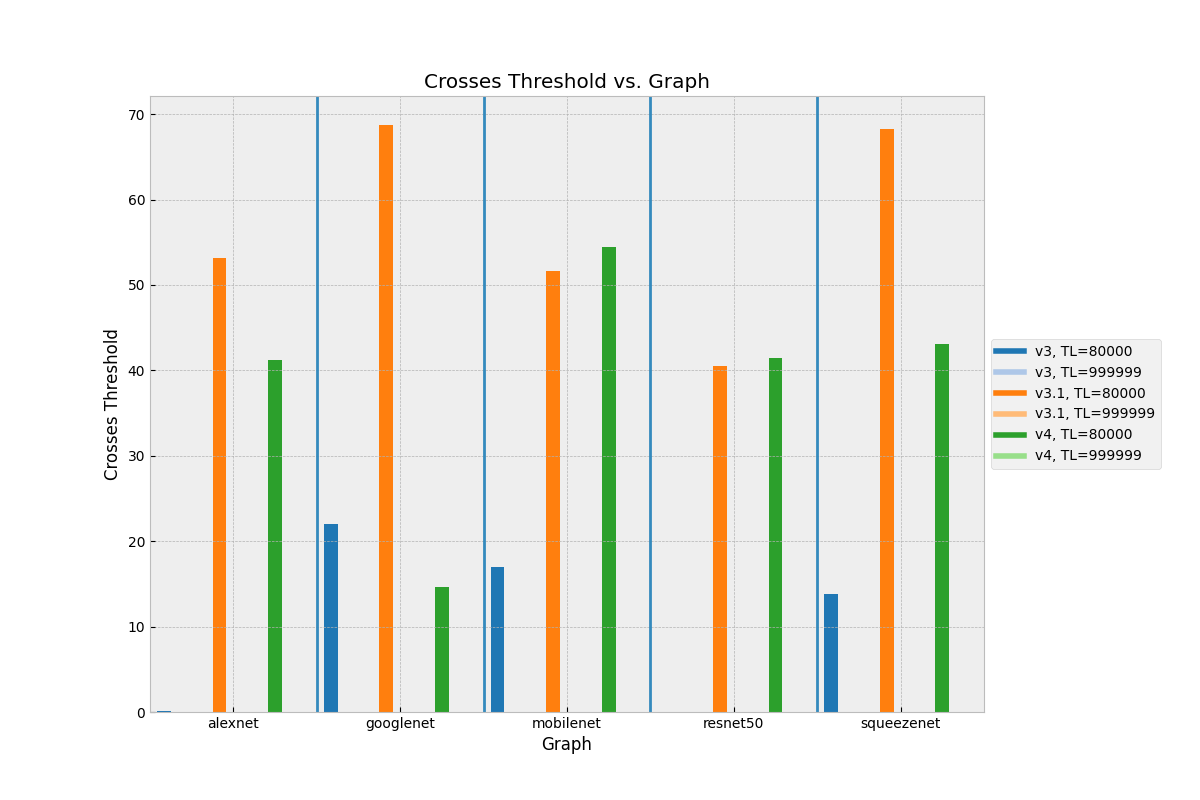
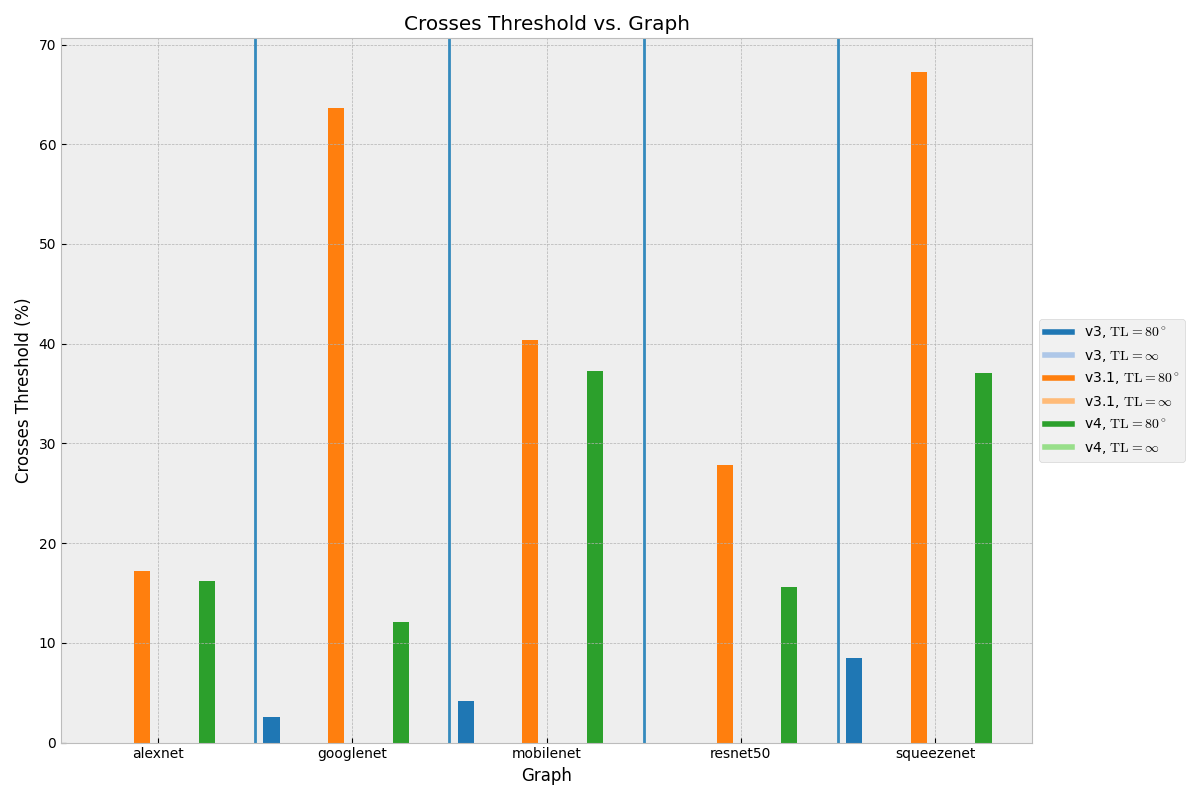
Add visualizations

diff --git a/stats.py b/stats.py
@@ -2,15 +2,21 @@ import glob
 import re
 from collections import defaultdict
 
-import matplotlib.pyplot as plt
 import matplotlib
-import pandas as pd
+import matplotlib.pyplot as plt
 import numpy as np
+import pandas as pd
+import seaborn as sns
 from matplotlib.axes import Axes
 from matplotlib.lines import Line2D
 
-temp_csvs = glob.glob("temp_schedulerv*/*_TL*_dt*.csv")
-time_logs = glob.glob("temp_scheduler_all/*_TL*_dt*_run_sched*.log")
+matplotlib.style.use("bmh")
+tab20 = matplotlib.cm.get_cmap("tab20")
+poss = np.linspace(0, 1, 20)[:6]
+colors = [tab20(x) for x in poss]
+
+temp_csvs = glob.glob("temp_schedulerv*/*_TL*_dt10000.csv")
+time_logs = glob.glob("temp_scheduler_all/*_TL*_dt10000_run_sched*.log")
 
 graphs = ("alexnet", "googlenet", "mobilenet", "resnet50", "squeezenet")
 versions = ("3", "3.1", "4")
@@ -21,18 +27,28 @@ def dd():
     return defaultdict(dd)
 
 
+def map_tl(tl):
+    if int(tl) == 80000:
+        return "80^\circ"
+    elif int(tl) == 999999:
+        return "\infty"
+
+
 stats = defaultdict(dd)
+temp_df = pd.DataFrame()
 
 for temp_csv in temp_csvs:
     version, graph, TL = re.findall(
-        r"temp_schedulerv([\d_]+)/(\w+)_TL(\d+)_dt\d+.csv", temp_csv
+        r"temp_schedulerv([\d_]+)/(\w+)_TL(\d+)_dt10000.csv", temp_csv
     )[0]
     version = version.replace("_", ".")
+    if TL not in TLs or version not in versions:
+        continue
     df = pd.read_csv(temp_csv)
-    average_temp = df[" temp"].mean()
-    crosses_threshold = len(df[df[" temp"] > int(TL)]) / len(df[" temp"]) * 100
-    stats[graph][version][TL]["average_temp"] = average_temp
+    average_temp = df["temp"].mean()
+    crosses_threshold = len(df[df["temp"] > int(TL)]) / len(df["temp"]) * 100
     stats[graph][version][TL]["crosses_threshold"] = crosses_threshold
+    temp_df[f"{graph}_v{version}_TL{TL}"] = df["temp"] / 1000
 
 for time_log in time_logs:
     file_name = time_log.split("/")[1]
@@ -44,52 +60,86 @@ for time_log in time_logs:
     time = re.findall(r"([\d\.]+) per inference", content)[0]
     stats[graph][version][TL]["time_taken"] = time
 
+print(temp_df)
+xtick_lables = []
+required_columns = []
+for graph in sorted(stats):
+    for version in sorted(stats[graph]):
+        for TL in sorted(stats[graph][version]):
+            xtick_lables.append(graph)
+            required_columns.append(f"{graph}_v{version}_TL{TL}")
+temp_df = temp_df[required_columns]
+fig = plt.figure(figsize=(12, 8))
+ax = sns.boxplot(
+    data=temp_df,
+    dodge=True,
+    palette=sns.color_palette("tab20", n_colors=6),
+    showfliers=False,
+    linewidth=1,
+)
+ax.set_xlabel("Graph")
+m, M = ax.get_xlim()
+xtick_lables = np.linspace(m, M, len(graphs) + 1)
+ax.set_xticks([(x + x1) / 2 for x, x1 in zip(xtick_lables, xtick_lables[1:])])
+ax.set_xticklabels(graphs, rotation=0)
+for x in np.linspace(m, M, len(graphs) + 1)[1:-1]:
+    ax.axvline(x=x, linewidth=1)
+ax.axhline(y=80, color="r", alpha=0.5)
+ax.legend(
+    [Line2D([0], [0], color=col, lw=4) for x, col in zip(poss, colors)],
+    [f"v{version}, ${{\\rm TL}}={map_tl(TL)}$" for version in versions for TL in TLs],
+    loc="center left",
+    bbox_to_anchor=(1, 0.3),
+)
+ax.set_ylabel(r"Temperature $(^\circ C)$")
+plt.title("Temperature vs. Graph")
+plt.show()
+plt.savefig("temp_scheduler_temperatures.png")
+
 indexes = []
 rows = []
 for graph in sorted(stats):
     for version in sorted(stats[graph]):
-        if version not in versions:
-            continue
         for TL in sorted(stats[graph][version]):
-            if TL not in TLs:
-                continue
             data = stats[graph][version][TL]
             indexes.append((graph, version, float(TL) / 1000))
             rows.append(
-                [
-                    float(data["average_temp"]) / 1000,
-                    float(data["crosses_threshold"]),
-                    float(data["time_taken"]),
-                ]
+                [float(data["crosses_threshold"]), float(data["time_taken"]),]
             )
+
+
 df = pd.DataFrame(
     rows,
-    columns=["Average Temp", "Crosses Threshold", "Time Taken",],
+    columns=["Crosses Threshold", "Time Taken"],
     index=pd.MultiIndex.from_tuples(indexes, names=["Graph", "Version", "TL"]),
 )
+print(df)
 
-matplotlib.style.use("bmh")
-tab20 = matplotlib.cm.get_cmap("tab20")
-poss = np.linspace(0, 1, 20)[:6]
-colors = [tab20(x) for x in poss]
 for column in df.columns:
     fig = plt.figure(figsize=(12, 8))
     ax: Axes = df.loc[:, column].plot(kind="bar", color=colors, stacked=True)
     ax.legend(
         [Line2D([0], [0], color=col, lw=4) for x, col in zip(poss, colors)],
-        [f"v{version}, TL={TL}" for version in versions for TL in TLs],
+        [
+            f"v{version}, ${{\\rm TL}}={map_tl(TL)}$"
+            for version in versions
+            for TL in TLs
+        ],
         loc="center left",
         bbox_to_anchor=(1, 0.5),
     )
     m, M = ax.get_xlim()
-    xticks = np.linspace(m, M, len(graphs) + 1)
-    ax.set_xticks([(x + x1) / 2 for x, x1 in zip(xticks, xticks[1:])])
+    xtick_lables = np.linspace(m, M, len(graphs) + 1)
+    ax.set_xticks([(x + x1) / 2 for x, x1 in zip(xtick_lables, xtick_lables[1:])])
     ax.set_xticklabels(graphs, rotation=0)
     for x in np.linspace(m, M, len(graphs) + 1)[1:-1]:
         ax.axvline(x=x)
-    ax.set_ylabel(column)
+    if column == "Crosses Threshold":
+        ax.set_ylabel(column + " (%)")
+    elif column == "Time Taken":
+        ax.set_ylabel(column + " (sec)")
     ax.set_xlabel("Graph")
     plt.title(f"{column} vs. Graph")
     fig.subplots_adjust(right=0.82)
-    # plt.show()
+    plt.show()
     fig.savefig(f"temp_scheduler_{column.lower().replace(' ', '_')}.png")
